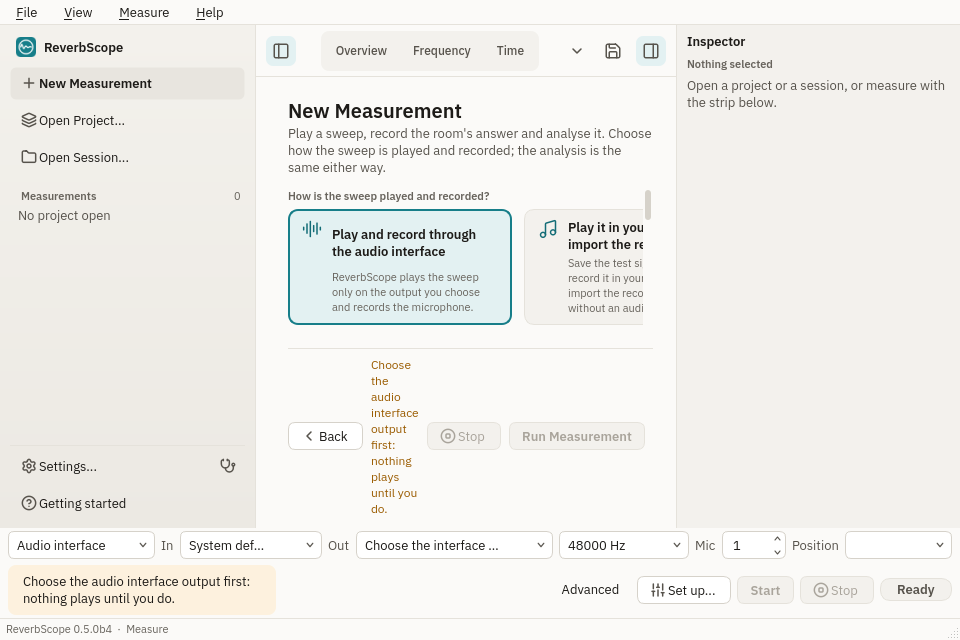
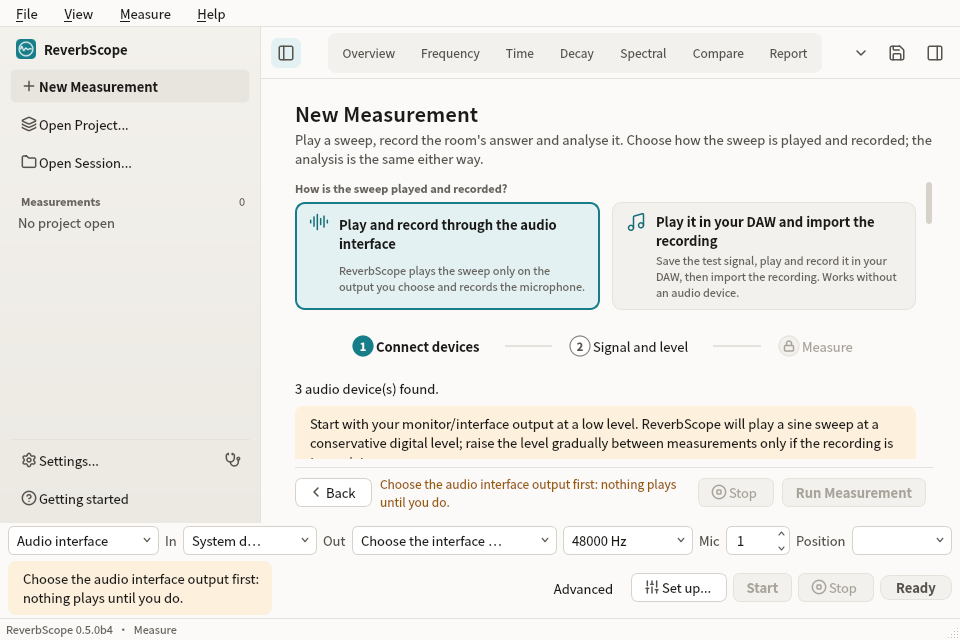
Desktop app: narrow New Measurement page keeps its reason and cards in view
The action bar moved into the page's footer stack, so the Standalone
page's own resize no longer followed the bar's width and the reason Run
is off stayed beside the buttons at 960 x 640. Place it again whenever
the bar itself is resized. Stack the two ways in when the chooser is
narrower than 560 px (960 px with the inspector open) instead of
cutting the second card off. Test both, in English and Chinese, and
re-render the 960 x 640 screenshots (rendered on their own, so the
inspector starts closed as on a first run below 1100 px).

Assisted-by: Hark

diff --git a/src/reverbscope/ui/pages.py b/src/reverbscope/ui/pages.py
@@ -17,9 +17,10 @@ from typing import Any, cast
 
 from matplotlib.backends.backend_qtagg import FigureCanvasQTAgg
 from matplotlib.figure import Figure
-from PySide6.QtCore import Qt, Signal
+from PySide6.QtCore import QEvent, QObject, Qt, Signal
 from PySide6.QtGui import QResizeEvent
 from PySide6.QtWidgets import (
+    QBoxLayout,
     QCheckBox,
     QComboBox,
     QDoubleSpinBox,
@@ -1067,6 +1068,10 @@ class StandalonePage(QWidget):
         self._action_layout.setSpacing(6)
         self._action_layout.addLayout(row)
         self._reason_above = False
+        # The bar lives in the New Measurement page's footer, not in this
+        # page, so this page's own resize does not follow the bar's width:
+        # the reason is placed again whenever the bar itself is resized.
+        self.action_bar.installEventFilter(self)
         layout.addStretch(1)
         self.refresh_devices()
         self._sync_readiness()
@@ -1174,6 +1179,11 @@ class StandalonePage(QWidget):
     def resizeEvent(self, event: QResizeEvent) -> None:  # noqa: N802 - Qt override
         super().resizeEvent(event)
         self._place_reason()
+
+    def eventFilter(self, watched: QObject, event: QEvent) -> bool:  # noqa: N802 - Qt override
+        if watched is getattr(self, "action_bar", None) and event.type() == QEvent.Type.Resize:
+            self._place_reason()
+        return super().eventFilter(watched, event)
 
     def _reveal_step(self, index: int) -> None:
         target = (self.devices_box, self.sweep_box, self.run_button)[index]
@@ -1715,6 +1725,11 @@ class StandalonePage(QWidget):
             error_box(self, _("Measurement failed"), message)
 
 
+#: Below this chooser width the two ways in stack: two cards side by side need
+#: room for a heading of a few words each, in Chinese and in English.
+ROUTE_CARDS_SIDE_BY_SIDE_MIN_WIDTH = 560
+
+
 def measurement_routes() -> tuple[tuple[str, str, str, str], ...]:
     """The ways in, in the order the page offers them: ``(route, icon, title, caption)``.
 
@@ -1773,7 +1788,10 @@ class MeasurePage(QWidget):
         chooser.setSpacing(6)
         self.chooser_title = label(_("How is the sweep played and recorded?"), "section")
         chooser.addWidget(self.chooser_title)
-        cards = QHBoxLayout()
+        #: Side by side, or one above the other when the column is narrow
+        #: (960 px with the inspector open), so the second card is not cut off.
+        self.route_cards = QBoxLayout(QBoxLayout.Direction.LeftToRight)
+        cards = self.route_cards
         cards.setSpacing(12)
         self.route_buttons: dict[str, QPushButton] = {}
         self._route_marks: dict[str, QLabel] = {}
@@ -1805,6 +1823,24 @@ class MeasurePage(QWidget):
         _follow(self.standalone.sample_rate, self.daw.sample_rate)
         _follow(self.standalone.duration, self.daw.duration)
         self.set_route("standalone")
+        self.chooser.installEventFilter(self)
+
+    def cards_stacked(self) -> bool:
+        """Whether the two ways in are shown one above the other."""
+        return self.route_cards.direction() == QBoxLayout.Direction.TopToBottom
+
+    def _place_cards(self) -> None:
+        stacked = self.chooser.width() < ROUTE_CARDS_SIDE_BY_SIDE_MIN_WIDTH
+        direction = (
+            QBoxLayout.Direction.TopToBottom if stacked else QBoxLayout.Direction.LeftToRight
+        )
+        if self.route_cards.direction() != direction:
+            self.route_cards.setDirection(direction)
+
+    def eventFilter(self, watched: QObject, event: QEvent) -> bool:  # noqa: N802 - Qt override
+        if watched is self.chooser and event.type() == QEvent.Type.Resize:
+            self._place_cards()
+        return super().eventFilter(watched, event)
 
     def _route_card(self, route: str, icon_name: str, title: str, caption: str) -> QPushButton:
         """A selectable card, drawn like the start panel's two ways in."""

diff --git a/tests/ui/test_unified_measure.py b/tests/ui/test_unified_measure.py
@@ -228,3 +228,56 @@ def test_the_choice_waits_while_a_take_runs(app: QApplication) -> None:
     window.standalone.busy_changed.emit(False)
     assert page.route_buttons["universal_daw"].isEnabled()
     window.close()
+
+
+def _pump(app: QApplication, seconds: float = 0.0) -> None:
+    import time
+
+    end = time.monotonic() + seconds
+    app.processEvents()
+    while time.monotonic() < end:
+        app.processEvents()
+        time.sleep(0.01)
+
+
+@pytest.mark.parametrize("language", ["en", "zh_CN"])
+def test_the_narrow_page_stacks_the_cards_and_moves_the_reason(
+    app: QApplication, language: str
+) -> None:
+    """960 x 640 with the inspector open: the two ways in stack instead of
+    the second card being cut off, and the reason Run is off moves above
+    the buttons when the pinned action bar (in the page's footer) narrows,
+    without anything else asking it to."""
+    from reverbscope.i18n import activate
+
+    activate(language)
+    try:
+        window = MainWindow()
+        window.resize(960, 640)
+        window.show()
+        window.show_mode("standalone")
+        _pump(app, 0.1)
+        page = window.measure
+        standalone = window.standalone
+        window.set_inspector_open(True)
+        _pump(app, 0.2)
+        assert page.chooser.width() < 560
+        assert page.cards_stacked()
+        first, second = (page.route_buttons[r] for r in ("standalone", "universal_daw"))
+        assert second.geometry().top() >= first.geometry().bottom()
+        assert first.width() == second.width() == page.chooser.width()
+        assert standalone.readiness_reason()
+        assert standalone.reason_above_buttons()
+        # Only the bar is resized (as the footer does): the reason follows.
+        standalone.action_bar.resize(900, standalone.action_bar.height())
+        assert not standalone.reason_above_buttons()
+        standalone.action_bar.resize(360, standalone.action_bar.height())
+        assert standalone.reason_above_buttons()
+        # Room again: the cards go back side by side.
+        window.set_inspector_open(False)
+        _pump(app, 0.2)
+        assert not page.cards_stacked()
+        assert first.geometry().top() == second.geometry().top()
+        window.close()
+    finally:
+        activate("en")
